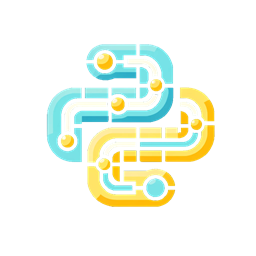
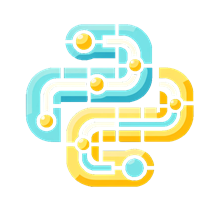
chore: update docs

diff --git a/README.md b/README.md
@@ -1,4 +1,10 @@
-# Pypeline
+<p align="center">
+<a href="https://pypeline-runner.readthedocs.io">
+<img align="center" src="https://github.com/cuinixam/pypeline/raw/main/logo.png" width="400"/>
+</a>
+</p>
+
+# pypeline - Define Your CI/CD Pipeline Once, Run It Anywhere
 
 <p align="center">
   <a href="https://github.com/cuinixam/pypeline/actions/workflows/ci.yml?query=branch%3Amain">
@@ -30,28 +36,71 @@
   <img src="https://img.shields.io/pypi/l/pypeline-runner.svg?style=flat-square" alt="License">
 </p>
 
-Pypeline is a Python application designed to streamline and automate the software development lifecycle, particularly the pipeline execution processes across various environments such as GitHub and Jenkins.
-The primary motivation for developing Pypeline stemmed from the need to unify and simplify the creation of build, test, and deployment pipelines that are traditionally defined separately across these platforms using GitHub workflows (YAML) and Jenkins pipelines (Jenkinsfile).
+Pypeline lets you define your build, test, and deployment pipeline in a single YAML file and run it _consistently_ across your local development environment and _any_ CI/CD platform (GitHub Actions, Jenkins, etc.). No more platform-specific configurations – write once, run anywhere.
 
 **Key Features**
 
 - **Unified Pipeline Definition**: Users can define their entire pipeline in a single YAML file, eliminating the need to switch between different syntaxes and configurations for different CI/CD tools.
 
-- **Extensibility**: Pypeline supports execution steps defined not only through local scripts but also from installed Python packages.
+- **Extensibility**: Pypeline supports execution steps defined not only through installed Python packages but also from local scripts.
 
-- **Execution Context**: Each step in the pipeline receives an execution context that can be updated during step execution. This allows for the sharing of information and state between steps.
+- **Execution Context**: Allow sharing information and state between steps. Each step in the pipeline receives an execution context that can be updated during step execution.
 
-- **Dependency Handling**: Dependency management ensures that only the necessary steps are executed, reducing runtime and resource usage by avoiding unnecessary operations.
-
-- **Ease of Use**: With Pypeline, setting up and running pipelines becomes more straightforward, enabling developers to focus more on coding and less on configuring pipeline specifics.
+- **Dependency Handling**: Every step can register its dependencies and will only be scheduled if anything has changed.
 
 ## Installation
 
-Install this via pip (or your favourite package manager):
+Use pipx (or your favorite package manager) to install and run it in an isolated environment:
 
-`pip install pypeline-runner`
+```shell
+pipx install pypeline-runner
+```
 
-## Start developing
+This will install the `pypeline` command globally, which you can use to run your pipelines.
+
+> [!NOTE]
+> The Python package is called `pypeline-runner` because the name `pypeline` was already taken on PyPI.
+> The command-line interface is `pypeline`.
+
+Documentation: [pypeline-runner.readthedocs.io](https://pypeline-runner.readthedocs.io)
+
+## Walkthrough: Getting Started with Pypeline
+
+To get started run the `init` command to create a sample project:
+
+```shell
+pypeline init --project-dir my-pipeline
+```
+
+The example project pipeline is defined in the `pipeline.yaml` file.
+
+```yaml
+pipeline:
+  - step: CreateVEnv
+    module: pypeline.steps.create_venv
+    config:
+      bootstrap_script: .bootstrap/bootstrap.py
+  - step: WestInstall
+    module: pypeline.steps.west_install
+    description: Download external modules
+  - step: MyStep
+    file: steps/my_step.py
+    description: Run a custom script
+```
+
+This pipeline consists of three steps:
+
+- `CreateVEnv`: This is a built-in step that creates a Python virtual environment.
+- `WestInstall`: This is a built-in step that downloads external modules using the `west` tool.
+- `MyStep`: This is a custom step that runs a script defined in the `steps/my_step.py` file.
+
+You can run the pipeline using the `run` command:
+
+```shell
+pypeline run --project-dir my-pipeline
+```
+
+## Contributing
 
 The project uses Poetry for dependencies management and packaging.
 Run the `bootstrap.ps1` script to install Python and create the virtual environment.
@@ -60,42 +109,21 @@ Run the `bootstrap.ps1` script to install Python and create the virtual environm
 .\bootstrap.ps1
 ```
 
-This will also generate a `poetry.lock` file, you should track this file in version control.
-
 To execute the test suite, call pytest inside Poetry's virtual environment via `poetry run`:
 
 ```shell
 .venv/Scripts/poetry run pytest
 ```
 
-Check out the Poetry documentation for more information on the available commands.
-
 For those using [VS Code](https://code.visualstudio.com/) there are tasks defined for the most common commands:
 
-- bootstrap
-- install dependencies
 - run tests
 - run all checks configured for pre-commit
 - generate documentation
 
 See the `.vscode/tasks.json` for more details.
 
-## Committing changes
-
 This repository uses [commitlint](https://github.com/conventional-changelog/commitlint) for checking if the commit message meets the [conventional commit format](https://www.conventionalcommits.org/en).
-
-## Contributors ✨
-
-Thanks goes to these wonderful people ([emoji key](https://allcontributors.org/docs/en/emoji-key)):
-
-<!-- prettier-ignore-start -->
-<!-- ALL-CONTRIBUTORS-LIST:START - Do not remove or modify this section -->
-<!-- markdownlint-disable -->
-<!-- markdownlint-enable -->
-<!-- ALL-CONTRIBUTORS-LIST:END -->
-<!-- prettier-ignore-end -->
-
-This project follows the [all-contributors](https://github.com/all-contributors/all-contributors) specification. Contributions of any kind welcome!
 
 ## Credits
 

diff --git a/docs/getting_started/kickstart.md b/docs/getting_started/kickstart.md
@@ -4,47 +4,53 @@ This guide will walk you through the process of installing Pypeline and kick-sta
 
 ## Installation
 
-To install Pypeline, run the following command:
+Use pipx (or your favorite package manager) to install and run it in an isolated environment:
 
-```bash
-pip install pypeline-runner
+```shell
+pipx install pypeline-runner
 ```
 
-If you cloned the repository, follow the steps in the `README` to bootstrap the project and install the dependencies.
+This will install the `pypeline` command globally, which you can use to run your pipelines.
+
+```{note}
+The Python package is called `pypeline-runner` because the name `pypeline` was already taken on PyPI.
+The command-line interface is `pypeline`.
+```
+
+Documentation: [pypeline-runner.readthedocs.io](https://pypeline-runner.readthedocs.io)
 
 ## Kickstart
 
-Pypeline provides a command-line interface (CLI) to help you create a new project. To create a new project, run the following command:
+To get started run the `init` command to create a sample project:
 
-```bash
-pypeline init --project-dir <some path>
+```shell
+pypeline init --project-dir my-pipeline
 ```
 
-:::{note}
-Replace `<some path>` with the path where you want to create the project.
-:::
+The example project pipeline is defined in the `pipeline.yaml` file.
 
-If you cloned the repository, follow the steps in the `README` to install the dependencies and then run:
-
-```powershell
-.\pypeline.ps1  init --project-dir <some path>
+```yaml
+pipeline:
+  - step: CreateVEnv
+    module: pypeline.steps.create_venv
+    config:
+      bootstrap_script: .bootstrap/bootstrap.py
+  - step: WestInstall
+    module: pypeline.steps.west_install
+    description: Download external modules
+  - step: MyStep
+    file: steps/my_step.py
+    description: Run a custom script
 ```
 
-:::{note}
-`pypeline.ps1` is a PowerShell script that wraps the Pypeline CLI.
-:::
+This pipeline consists of three steps:
 
-## Check the Project
+- `CreateVEnv`: This is a built-in step that creates a Python virtual environment.
+- `WestInstall`: This is a built-in step that downloads external modules using the `west` tool.
+- `MyStep`: This is a custom step that runs a script defined in the `steps/my_step.py` file.
 
-Navigate to the project directory and check the contents. You should see the following files:
+You can run the pipeline using the `run` command:
 
-- `pypeline.yaml`: The pipeline definition file
-- `steps/`: The directory containing the pipeline steps
-
-To run the pipeline, execute the following command from the project directory:
-
-```powershell
-.\pypeline.ps1 run
+```shell
+pypeline run --project-dir my-pipeline
 ```
-
-Happy coding!

diff --git a/docs/intro.md b/docs/intro.md
@@ -1,16 +1,13 @@
-Pypeline is a Python application designed to streamline and automate the software development lifecycle, particularly the pipeline execution processes across various environments such as GitHub and Jenkins.
-The primary motivation for developing Pypeline stemmed from the need to unify and simplify the creation of build, test, and deployment pipelines that are traditionally defined separately across these platforms using GitHub workflows (YAML) and Jenkins pipelines (Jenkinsfile).
+Pypeline lets you define your build, test, and deployment pipeline in a single YAML file and run it _consistently_ across your local development environment and _any_ CI/CD platform (GitHub Actions, Jenkins, etc.). No more platform-specific configurations – write once, run anywhere.
 
 **Key Features**
 
 - **Unified Pipeline Definition**: Users can define their entire pipeline in a single YAML file, eliminating the need to switch between different syntaxes and configurations for different CI/CD tools.
 
-- **Extensibility**: Pypeline supports execution steps defined not only through local scripts but also from installed Python packages.
+- **Extensibility**: Pypeline supports execution steps defined not only through installed Python packages but also from local scripts.
 
-- **Execution Context**: Each step in the pipeline receives an execution context that can be updated during step execution. This allows for the sharing of information and state between steps.
+- **Execution Context**: Allow sharing information and state between steps. Each step in the pipeline receives an execution context that can be updated during step execution.
 
-- **Dependency Handling**: Dependency management ensures that only the necessary steps are executed, reducing runtime and resource usage by avoiding unnecessary operations.
-
-- **Ease of Use**: With Pypeline, setting up and running pipelines becomes more straightforward, enabling developers to focus more on coding and less on configuring pipeline specifics.
+- **Dependency Handling**: Every step can register its dependencies and will only be scheduled if anything has changed.
 
 See the [Getting Started](getting_started/index.md) section to learn how to install and use Pypeline.

diff --git a/docs/getting_started/concepts.md b/docs/getting_started/concepts.md
@@ -1,15 +1,5 @@
 # Basic Concepts
 
-## Artifacts Locator
-
-This is required to find custom pipeline steps defined in `.py` files inside the project.
-
-```yaml
-pipeline:
-  - step: MyStep
-    file: scripts/steps/my_step.py
-```
-
 ## Execution Context
 
 All information required to execute the pipeline steps.
@@ -20,21 +10,7 @@ Examples:
 - a step installing tools can register tools with their bin folders to be used by subsequent steps
 - code generators can provide include paths
 
-## User Request
-
-Information about a specific `request` that a user wants to execute.
-This is relevant for local builds, where a user might want to execute specific targets.
-One might only want to execute a compile for a component or a specific code generation step.
-
 ## Pipeline Step
 
 The building blocks of a pipeline.
-
-## Pipeline Step Reference
-
-This is just the name of the step. One needs this to be able to distinguish between finding a step and instantiating and executing a step.
-
-## Project Slurper
-
-This is required to find all relevant configuration files.
-If one decides to use multiple configuration files, to define pipeline steps, the project slurper shall be used to find all of them.
+The pipeline steps are implemented as Python modules or command-line scripts.

diff --git a/docs/features/index.md b/docs/features/index.md
@@ -95,9 +95,6 @@ pipeline:
       run: echo "Hello"
 ```
 
-```
-
-
 ### Groups (optional)
 
 In the `pypeline.yaml`, each top-level key under `pipeline` represents a `group` in the pipeline.
@@ -118,4 +115,7 @@ Create a virtual environment for the project using the [bootstrap](https://githu
 ## Install Scoop Applications
 
 Install applications using a [wrapper](https://python-app-dev.readthedocs.io/en/latest/features/scoop_wrapper.html) for the Scoop package manager for Windows.
+
+```
+
 ```
